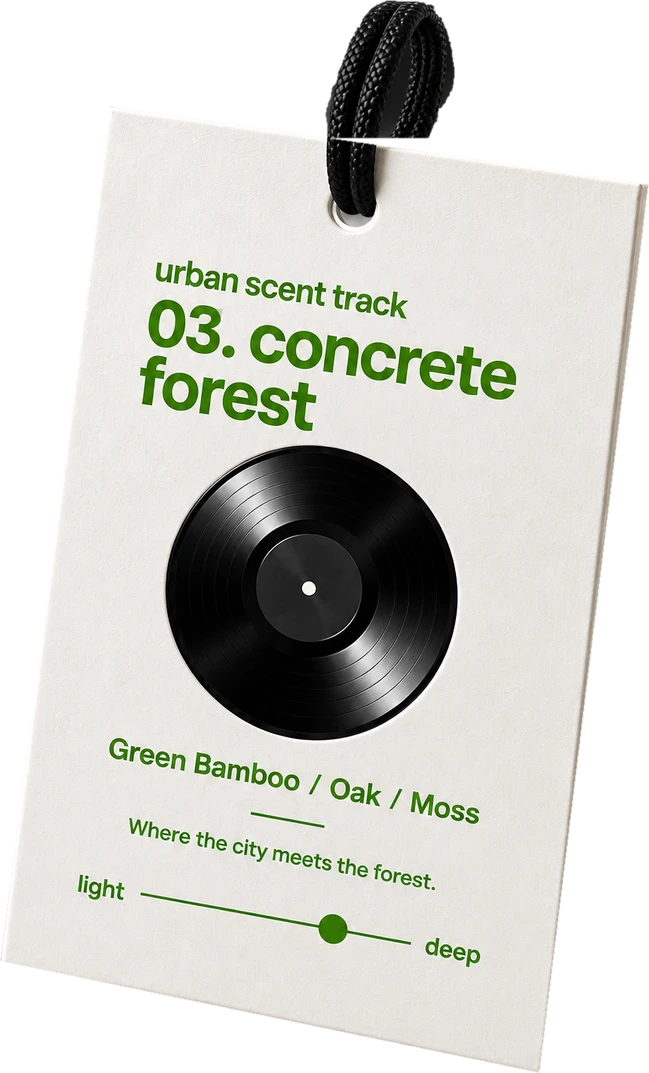
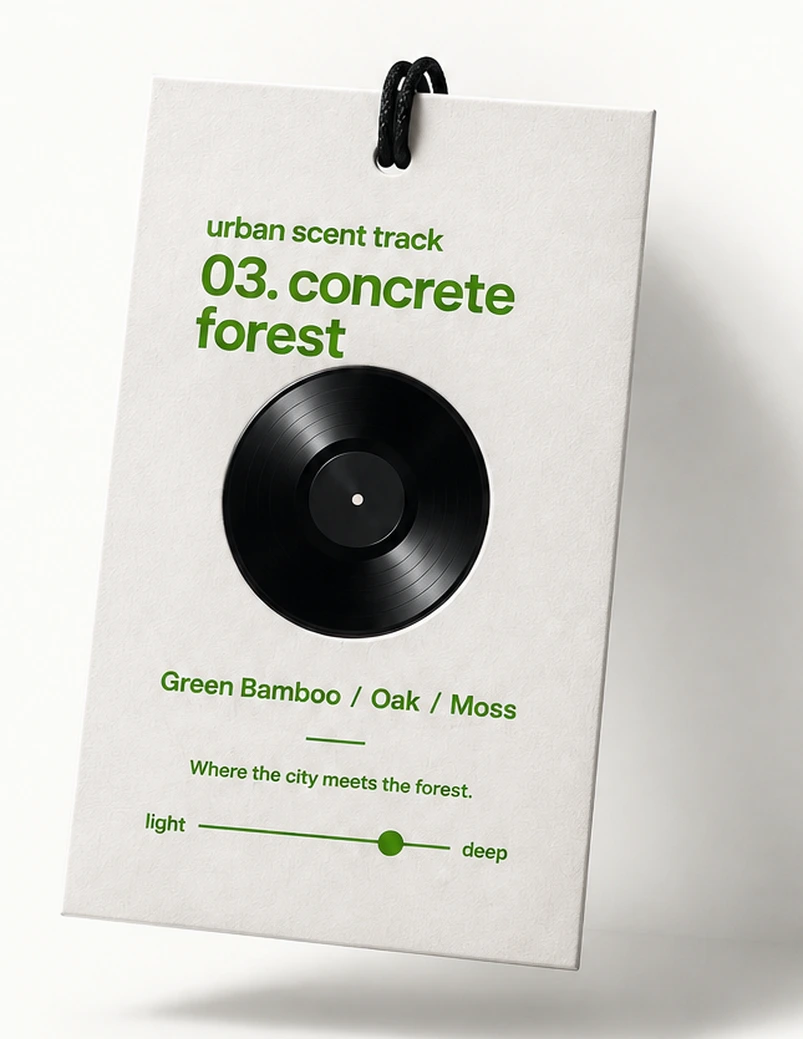
제품 사진을 보내주신 원본 그대로 사용하도록 교체하고 scent notes를 버튼 줄로 이동
- 끈이 뭉개지던 배경 제거 방식 대신, 밝은 배경 원본을 그대로 크롭해 사용
  (배경색만 사이트 아이보리(#faf9f6)에 정확히 맞춰 경계가 보이지 않게 보정)
- 사진에 자체 그림자가 있어 CSS drop-shadow와 타원 그림자 제거
- scent notes 버튼을 사진 위에서 빼내 구매하기와 음악 듣기 사이에 배치

Claude-Session: https://claude.ai/code/session_0138ZKp8DuMDLTPzZn6MWR4y

diff --git a/index.html b/index.html
@@ -453,44 +453,18 @@
   .track-tagline{ font-size:1.15rem; font-weight:500; opacity:0.78; max-width:460px; }
   .track-tags{ margin-top:10px; font-size:0.86rem; font-weight:500; opacity:0.6; letter-spacing:0.01em; }
 
-  /* product mock — big floating sachet card */
+  /* 실제 제품 사진 — 사진 자체에 그림자가 들어 있어 별도 CSS 그림자를 쓰지 않음 */
   .product-stage{
     position:relative; z-index:0; width:100%; display:flex; justify-content:center; margin:12px 0 6px;
   }
-  .product-shadow{
-    position:absolute; bottom:-6%; left:50%; transform:translateX(-50%);
-    width:64%; max-width:320px; height:32px;
-    background:radial-gradient(ellipse,rgba(0,0,0,0.32),transparent 72%);
-    filter:blur(10px); z-index:0; pointer-events:none;
-  }
+  .product-figure{ position:relative; z-index:1; }
+  .product-photo{ display:block; height:470px; width:auto; }
 
-  /* 실제 제품 사진(배경 제거 PNG) — 기존 카드와 같은 자리·같은 크기, 그림자도 기존 값 유지 */
-  .product-figure{
-    position:relative; z-index:1;
-    transition:transform .5s cubic-bezier(.16,1,.3,1);
-  }
-  .product-figure:hover{ transform:scale(1.03); }
-  /* 끈이 가려지지 않도록 버튼을 택 오른쪽 위 모서리 쪽으로 내려 배치 */
-  .product-figure .notes-btn{ top:15%; right:-20px; }
-  .product-photo{
-    display:block; height:430px; width:auto;
-    /* 투명 배경이라 box-shadow 대신 drop-shadow로 실루엣을 따라가게 함 */
-    filter:drop-shadow(0 50px 60px rgba(0,0,0,0.30)) drop-shadow(0 18px 26px rgba(0,0,0,0.20));
-  }
-
-  /* scent notes button + modal */
+  /* scent notes 버튼 — 구매 버튼 줄에 함께 놓이는 알약 버튼 */
   .notes-btn{
-    position:absolute; z-index:3;
-    top:-14px; right:-18px;
-    display:flex; align-items:center; gap:7px;
-    padding:11px 18px; border-radius:980px; border:none; cursor:pointer;
-    font-family:inherit; font-size:0.7rem; font-weight:800;
-    letter-spacing:0.06em; text-transform:uppercase;
-    background:#0c0c0a; color:#fff;
-    box-shadow:0 12px 30px -10px rgba(0,0,0,0.45);
-    transition:transform .25s ease, box-shadow .25s ease;
+    border:1.4px solid currentColor; background:transparent; color:inherit;
+    cursor:pointer; font-family:inherit;
   }
-  .notes-btn:hover{ transform:translateY(-2px) scale(1.04); box-shadow:0 16px 34px -10px rgba(0,0,0,0.5); }
   .notes-btn .plus{ font-size:0.95rem; font-weight:700; line-height:1; }
 
   .notes-modal{
@@ -523,7 +497,6 @@
     font-family:inherit;
   }
   .notes-close:hover{ background:rgba(7,7,7,0.12); }
-  @media (max-width:520px){ .notes-btn{ top:-12px; right:-6px; padding:10px 15px; font-size:0.65rem; } }
   .notes-desc{
     display:none; margin-top:20px; padding-top:18px;
     border-top:1px solid rgba(7,7,7,0.08);
@@ -760,7 +733,7 @@
     .track-music{ font-size:0.82rem; margin-top:30px; }
     .buy-row{ margin-top:30px; }
 
-    .product-photo{ height:386px; }
+    .product-photo{ height:420px; }
 
     .buy-row{ flex-direction:column; gap:12px; width:100%; }
     /* 데스크탑용 버튼 래퍼 — 모바일에서는 기존처럼 세로로 쌓이게 */
@@ -796,16 +769,14 @@
     .intro{ padding:80px 18px; }
     .track-section{ padding:80px 18px; }
     .track-title{ letter-spacing:-0.035em; }
-    .product-photo{ height:min(358px,96vw); }
+    .product-photo{ height:min(390px,104vw); }
     .bundle-stage .mini{ width:84px; margin-left:-14px; }
     .price-tag{ font-size:1.25rem; }
   }
 
   /* --- 터치 기기: hover 잔상 제거 --- */
   @media (hover:none){
-    .product-figure:hover{ transform:none; }
-    .pill:hover, .btn-pill:hover, .notes-btn:hover{ transform:none; box-shadow:none; }
-    .notes-btn:hover{ box-shadow:0 12px 30px -10px rgba(0,0,0,0.45); }
+    .pill:hover, .btn-pill:hover{ transform:none; box-shadow:none; }
   }
   /* ===== 데스크탑: Track 섹션 2단 레이아웃 (참고 HTML의 크기·간격을 그대로 반영, 카드는 기존 크기 유지) ===== */
   @media (min-width:761px){
@@ -1070,10 +1041,8 @@
     <div class="track-divider reveal d1"></div>
 
     <div class="product-stage reveal d2">
-      <div class="product-shadow"></div>
       <div class="product-figure">
-        <button class="notes-btn" data-track="1" type="button">scent notes <span class="plus">+</span></button>
-        <img class="product-photo" src="assets/product-01.webp" width="630" height="1028" loading="lazy"
+        <img class="product-photo" src="assets/product-01.webp" width="803" height="1039" loading="lazy"
              alt="Track 01 city citrus 차량용 종이 샤쉐 실제 제품 — 레몬·샌달우드·파출리">
       </div>
     </div>
@@ -1088,6 +1057,7 @@
       </div>
       <div class="buy-cta">
         <a class="btn-pill dark" href="https://smartstore.naver.com/urbanscenttrack/products/13753483365" target="_blank" rel="noopener">Shop Track 01</a>
+        <button class="btn-pill notes-btn" data-track="1" type="button">scent notes <span class="plus">+</span></button>
         <a class="btn-pill outline" href="/play01">Track 01 음악 듣기 ↗</a>
       </div>
     </div>
@@ -1124,10 +1094,8 @@
     <div class="track-divider reveal d1"></div>
 
     <div class="product-stage reveal d2">
-      <div class="product-shadow"></div>
       <div class="product-figure">
-        <button class="notes-btn" data-track="2" type="button">scent notes <span class="plus">+</span></button>
-        <img class="product-photo" src="assets/product-02.webp" width="659" height="1094" loading="lazy"
+        <img class="product-photo" src="assets/product-02.webp" width="803" height="1039" loading="lazy"
              alt="Track 02 clean cotton 차량용 종이 샤쉐 실제 제품 — 민트·코튼·화이트머스크">
       </div>
     </div>
@@ -1142,6 +1110,7 @@
       </div>
       <div class="buy-cta">
         <a class="btn-pill dark" href="https://smartstore.naver.com/urbanscenttrack/products/13753483366" target="_blank" rel="noopener">Shop Track 02</a>
+        <button class="btn-pill notes-btn" data-track="2" type="button">scent notes <span class="plus">+</span></button>
         <a class="btn-pill outline" href="/play02">Track 02 음악 듣기 ↗</a>
       </div>
     </div>
@@ -1178,10 +1147,8 @@
     <div class="track-divider reveal d1"></div>
 
     <div class="product-stage reveal d2">
-      <div class="product-shadow"></div>
       <div class="product-figure">
-        <button class="notes-btn" data-track="3" type="button">scent notes <span class="plus">+</span></button>
-        <img class="product-photo" src="assets/product-03.webp" width="649" height="1073" loading="lazy"
+        <img class="product-photo" src="assets/product-03.webp" width="803" height="1039" loading="lazy"
              alt="Track 03 concrete forest 차량용 종이 샤쉐 실제 제품 — 그린뱀부·오크·모스">
       </div>
     </div>
@@ -1196,6 +1163,7 @@
       </div>
       <div class="buy-cta">
         <a class="btn-pill dark" href="https://smartstore.naver.com/urbanscenttrack/products/13753483367" target="_blank" rel="noopener">Shop Track 03</a>
+        <button class="btn-pill notes-btn" data-track="3" type="button">scent notes <span class="plus">+</span></button>
         <a class="btn-pill outline" href="/play03">Track 03 음악 듣기 ↗</a>
       </div>
     </div>
